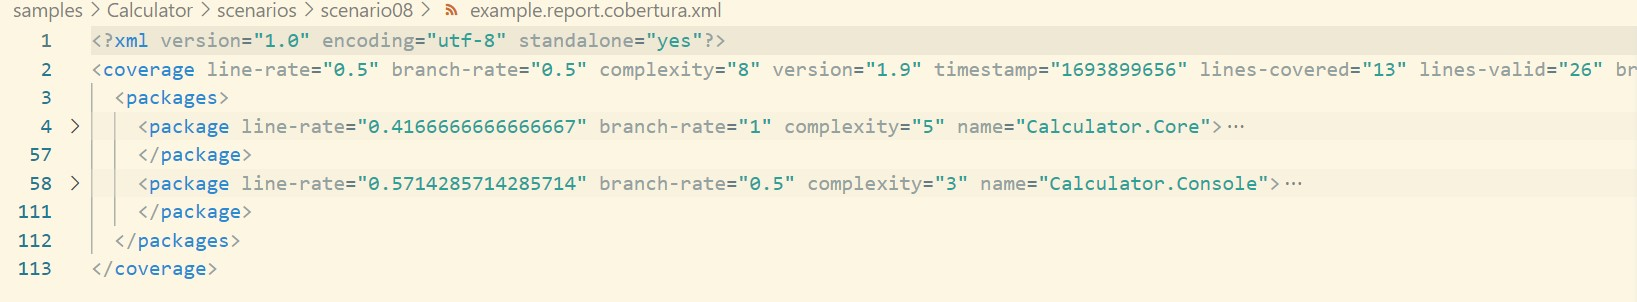
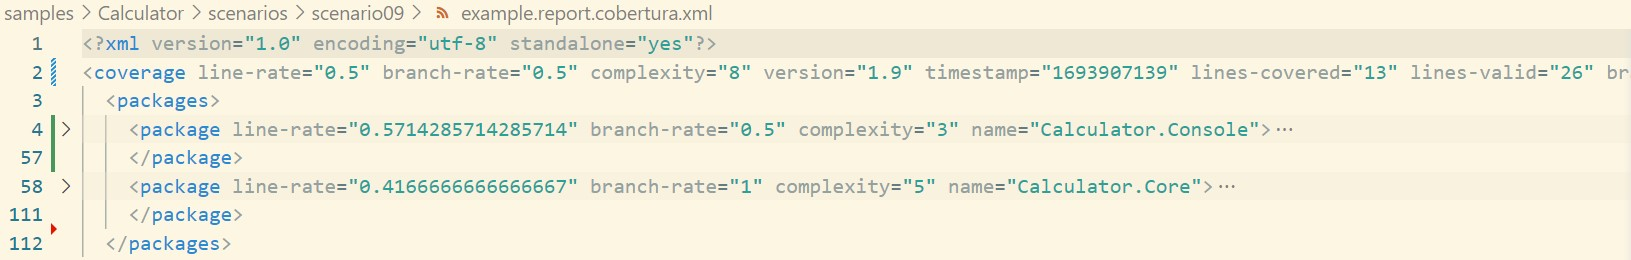
Scenario 9 finished

Changed region(s): [[0.0, 0.0, 1.0, 0.6769], [0.0, 0.6769, 0.7664, 0.9846], [0.0, 0.1231, 0.0307, 0.1538]]

diff --git a/samples/Calculator/scenarios/scenario09/README.md b/samples/Calculator/scenarios/scenario09/README.md
@@ -1,6 +1,26 @@
 # Scenario Description
 
-This example shows how our tool [dotnet-coverage](https://aka.ms/dotnet-coverage) can be used to collect code coverage for console application. Cobertura report format can be used to generate HTML report using [report generator](https://github.com/danielpalme/ReportGenerator). This format can be also used with [PublishCodeCoverageResults@2](https://learn.microsoft.com/en-us/azure/devops/pipelines/tasks/reference/publish-code-coverage-results-v2?view=azure-pipelines) in Azure DevOps pipelines.
+This example shows how our tool [dotnet-coverage](https://aka.ms/dotnet-coverage) can be used to collect code coverage for console application using [static instrumentation](../../../../docs/instrumentation.md). It is important to remember that files to be instrumented need to be specified using `--include-files`. When executing tests this is not needed as our tooling automatically detects directory with libraries and instrument it. Cobertura report format can be used to generate HTML report using [report generator](https://github.com/danielpalme/ReportGenerator). This format can be also used with [PublishCodeCoverageResults@2](https://learn.microsoft.com/en-us/azure/devops/pipelines/tasks/reference/publish-code-coverage-results-v2?view=azure-pipelines) in Azure DevOps pipelines.
+
+# Configuration
+
+```xml
+<?xml version="1.0" encoding="utf-8"?>
+<RunSettings>
+  <DataCollectionRunSettings>
+    <DataCollectors>
+      <DataCollector friendlyName="Code Coverage" uri="datacollector://Microsoft/CodeCoverage/2.0" assemblyQualifiedName="Microsoft.VisualStudio.Coverage.DynamicCoverageDataCollector, Microsoft.VisualStudio.TraceCollector, Version=11.0.0.0, Culture=neutral, PublicKeyToken=b03f5f7f11d50a3a">
+        <Configuration>
+          <CodeCoverage>
+            <EnableStaticManagedInstrumentation>True</EnableStaticManagedInstrumentation>
+            <EnableDynamicManagedInstrumentation>False</EnableDynamicManagedInstrumentation>
+          </CodeCoverage>
+        </Configuration>
+      </DataCollector>
+    </DataCollectors>
+  </DataCollectionRunSettings>
+</RunSettings>
+```
 
 # Collect code coverage using command line
 
@@ -9,7 +29,7 @@ git clone https://github.com/microsoft/codecoverage.git
 cd codecoverage/samples/Calculator/src/Calculator.Console/
 dotnet build
 dotnet tool install -g dotnet-coverage
-dotnet-coverage collect -f cobertura "dotnet run --no-build add 10 24"
+dotnet-coverage collect -f cobertura -s ../../scenarios/scenario09/coverage.runsettings --include-files "./bin/Debug/**/*.dll" "dotnet run --no-build add 10 24"
 ```
 
 You can also use [run.ps1](run.ps1) to execute this scenario.
@@ -30,7 +50,7 @@ You can also use [run.ps1](run.ps1) to execute this scenario.
     - name: Install dotnet-coverage
       run: dotnet tool install -g dotnet-coverage
     - name: Run
-      run: dotnet-coverage collect -f cobertura -o $GITHUB_WORKSPACE/report.cobertura.xml "dotnet run --no-build add 10 24"
+      run: dotnet-coverage collect -s ../../scenarios/scenario09/coverage.runsettings --include-files "./bin/Debug/**/*.dll" -f cobertura -o $GITHUB_WORKSPACE/report.cobertura.xml "dotnet run --no-build add 10 24"
     - name: ReportGenerator
       uses: danielpalme/ReportGenerator-GitHub-Action@5.1.24
       with:
@@ -77,7 +97,7 @@ steps:
 - task: Bash@3
   inputs:
     targetType: 'inline'
-    script: 'dotnet-coverage collect -f cobertura -o report.cobertura.xml "dotnet run --project $(projectPath) --no-build add 10 24"'
+    script: 'dotnet-coverage collect -s $(Build.SourcesDirectory)/samples/Calculator/scenarios/scenario09/coverage.runsettings --include-files "$(Build.SourcesDirectory)/samples/Calculator/src/Calculator.Console/bin/Debug/**/*.dll" -f cobertura -o report.cobertura.xml "dotnet run --project $(projectPath) --no-build add 10 24"'
   displayName: 'dotnet run'
 
 - task: PublishCodeCoverageResults@2
